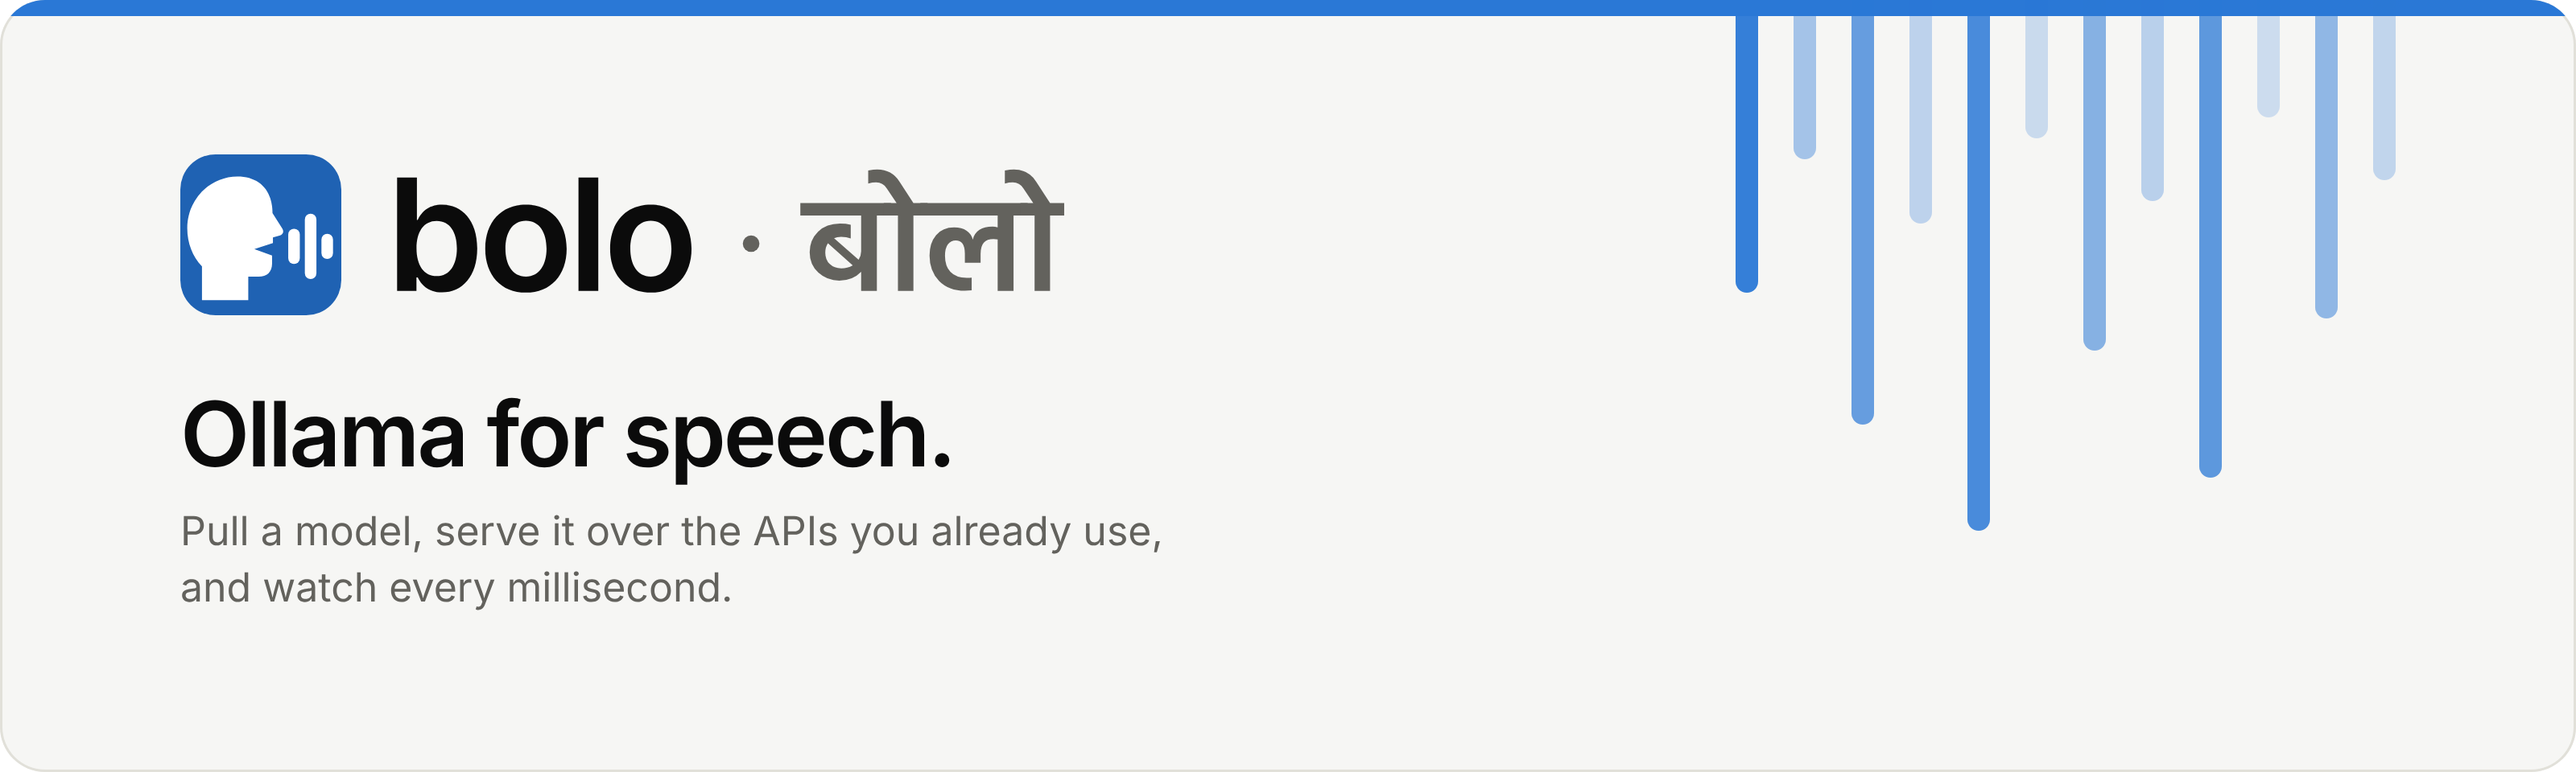
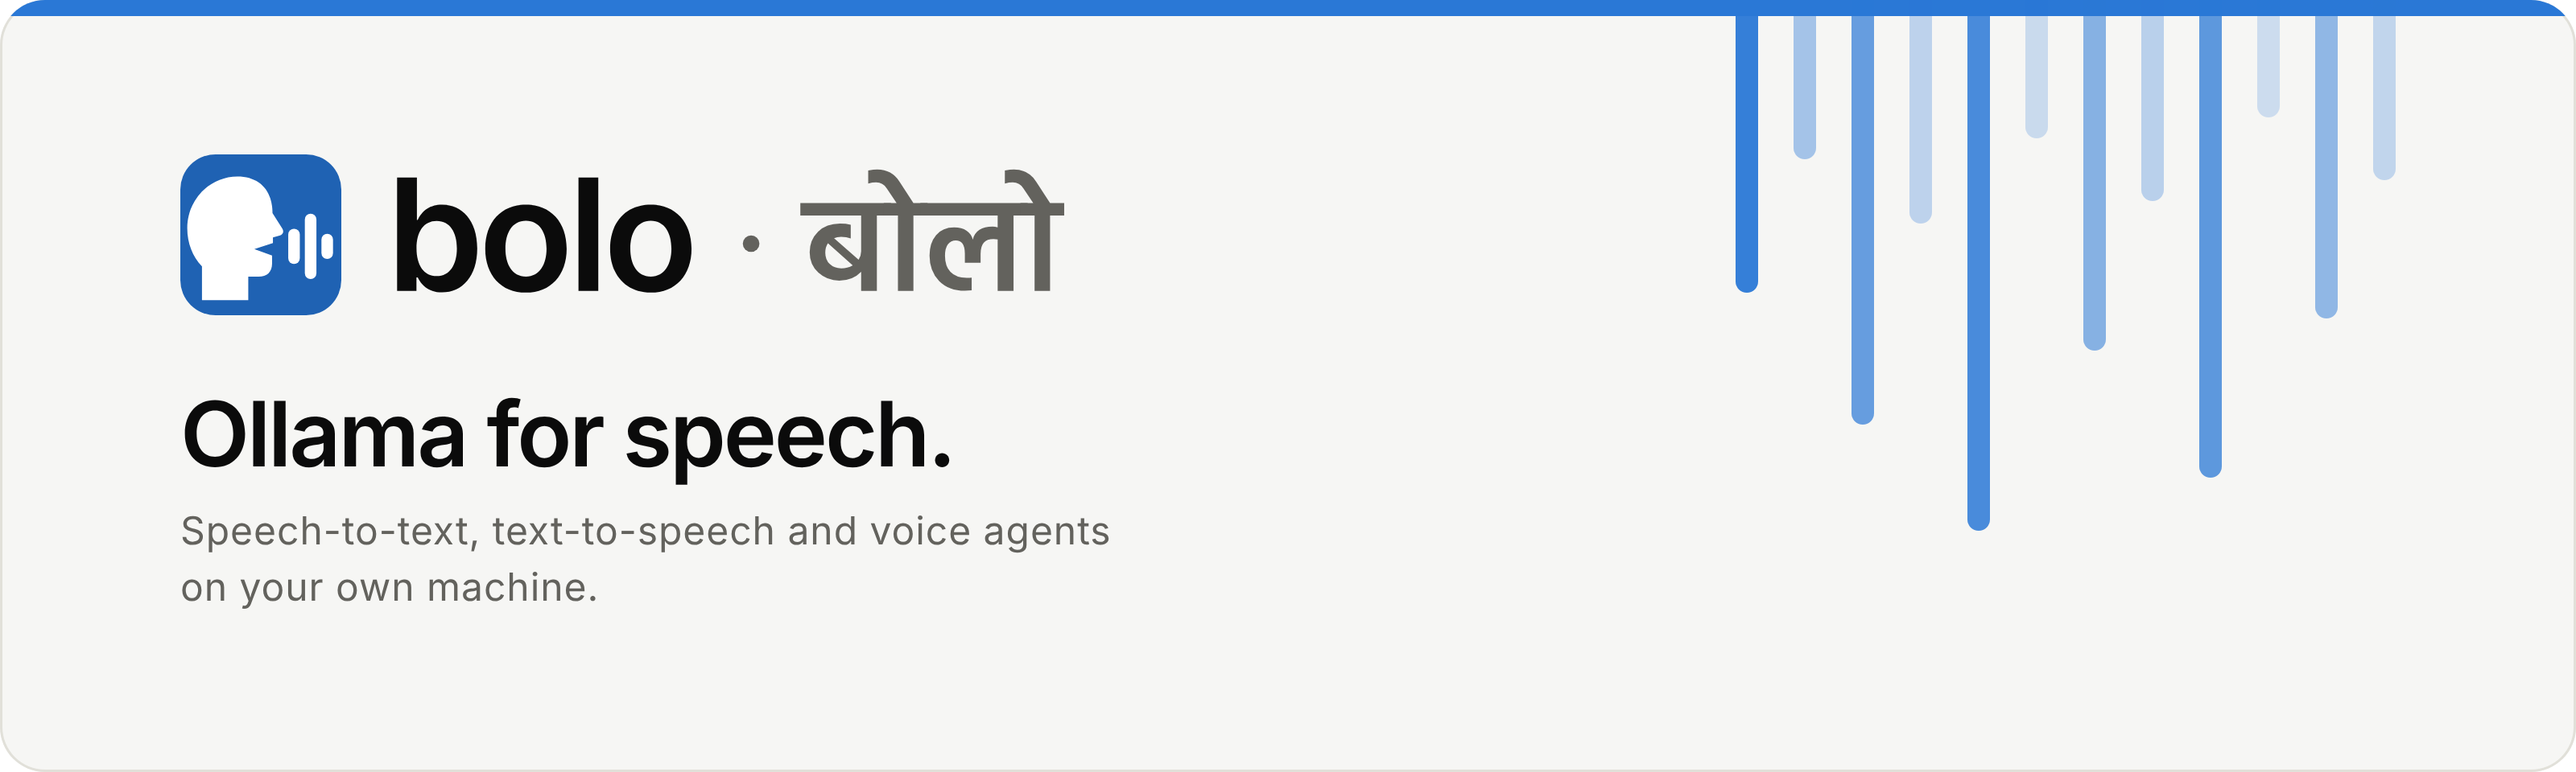
Brand: plain tagline under "Ollama for speech."
"Pull a model, serve it over the APIs you already use, and watch every
millisecond" becomes "Speech-to-text, text-to-speech and voice agents on
your own machine." in the banners, the social preview (and the console's
og.png copy), the README alt text and the console's share descriptions.

Changed region(s): [[0.0625, 0.6562, 0.4688, 0.7188], [0.0625, 0.75, 0.2812, 0.7812]]

diff --git a/ui/index.html b/ui/index.html
@@ -11,7 +11,7 @@
     <meta property="og:title" content="bolo: an open-source speech server with a latency-first console" />
     <meta
       property="og:description"
-      content="Pull a speech model, serve it over the APIs you already use, and watch every millisecond. Speech to text, text to speech and voice activity detection."
+      content="Speech-to-text, text-to-speech and voice agents on your own machine, behind the APIs you already use."
     />
     <meta property="og:image" content="./og.png" />
     <meta property="og:image:width" content="1280" />
@@ -19,7 +19,10 @@
     <meta property="og:image:alt" content="bolo: Ollama for speech" />
     <meta name="twitter:card" content="summary_large_image" />
     <meta name="twitter:title" content="bolo: an open-source speech server with a latency-first console" />
-    <meta name="twitter:description" content="Pull a speech model, serve it, and watch every millisecond." />
+    <meta
+      name="twitter:description"
+      content="Speech-to-text, text-to-speech and voice agents on your own machine, behind the APIs you already use."
+    />
     <link rel="icon" type="image/svg+xml" href="./favicon.svg" />
     <link rel="apple-touch-icon" href="./apple-touch-icon.png" />
     <link rel="manifest" href="./site.webmanifest" />

diff --git a/server/README.md b/server/README.md
@@ -3,7 +3,7 @@
     <picture>
       <source media="(prefers-color-scheme: dark)" srcset="https://raw.githubusercontent.com/cB-Sigma/bolo/main/docs/assets/brand/banner-dark.png">
       <source media="(prefers-color-scheme: light)" srcset="https://raw.githubusercontent.com/cB-Sigma/bolo/main/docs/assets/brand/banner-light.png">
-      <img src="https://raw.githubusercontent.com/cB-Sigma/bolo/main/docs/assets/brand/banner-dark.png" alt="bolo: Ollama for speech. Pull a model, serve it over the APIs you already use, and watch every millisecond." width="100%">
+      <img src="https://raw.githubusercontent.com/cB-Sigma/bolo/main/docs/assets/brand/banner-dark.png" alt="bolo: Ollama for speech. Speech-to-text, text-to-speech and voice agents on your own machine." width="100%">
     </picture>
   </a>
 </p>

diff --git a/README.md b/README.md
@@ -3,7 +3,7 @@
     <picture>
       <source media="(prefers-color-scheme: dark)" srcset="docs/assets/brand/banner-dark.png">
       <source media="(prefers-color-scheme: light)" srcset="docs/assets/brand/banner-light.png">
-      <img src="docs/assets/brand/banner-dark.png" alt="bolo: Ollama for speech. Pull a model, serve it over the APIs you already use, and watch every millisecond." width="100%">
+      <img src="docs/assets/brand/banner-dark.png" alt="bolo: Ollama for speech. Speech-to-text, text-to-speech and voice agents on your own machine." width="100%">
     </picture>
   </a>
 </p>
